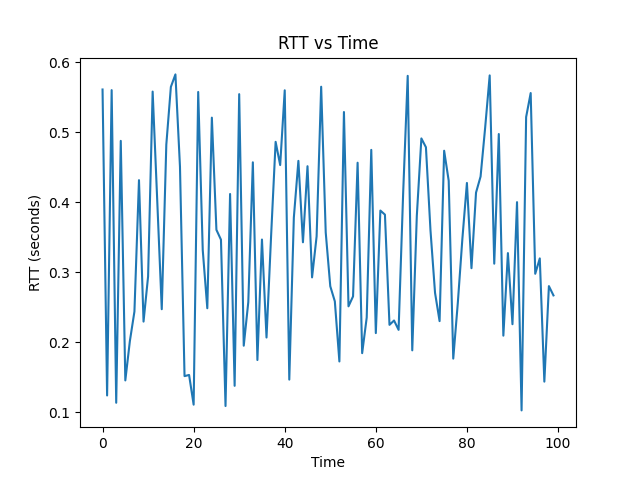
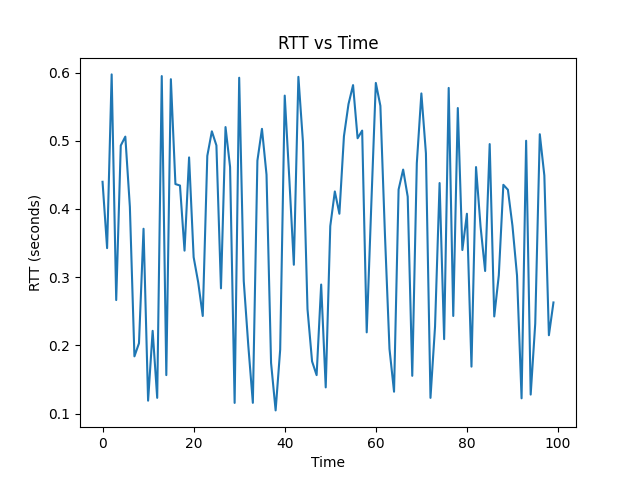
yeah ever

diff --git a/Security Aware TCP Simulation/tcp_sender.py b/Security Aware TCP Simulation/tcp_sender.py
@@ -4,62 +4,77 @@ import time
 from rtt_estimator import RTTEstimator
 from logger import log
 
+# Constants
 SERVER_IP = "127.0.0.1"
 SERVER_PORT = 9000
-DATA_SIZE = 1000  # bytes
-TOTAL_PACKETS = 100
+DATA_SIZE = 1000  # bytes per packet
+TOTAL_PACKETS = 100  # total packets to send
 
-cwnd = 1  # congestion window
-ssthresh = 16
-send_base = 0
+# TCP State Variables
+cwnd = 1          # congestion window size (packets)
+ssthresh = 16     # slow start threshold
+send_base = 0     # next expected ACK
 lock = threading.Lock()
 
 rtt_estimator = RTTEstimator()
 
 def send_packets(sock):
+    """Sender thread for sending packets"""
     global send_base, cwnd
     while send_base < TOTAL_PACKETS:
         lock.acquire()
         for i in range(send_base, min(send_base + cwnd, TOTAL_PACKETS)):
             data = f"{i}".encode()
-            sock.send(data)
-            log(f"[TCP]: Sent packet {i}")
+            try:
+                sock.send(data)
+                log(f"[TCP Sender]: Sent packet {i}")
+            except Exception as e:
+                log(f"[TCP Sender ERROR]: {e}")
         lock.release()
-        time.sleep(0.05)
+        time.sleep(0.05)  # small interval between bursts
 
 def receive_acks(sock):
+    """Sender thread for receiving ACKs and adjusting cwnd"""
     global send_base, cwnd, ssthresh
     while send_base < TOTAL_PACKETS:
-        ack = sock.recv(1024)
-        if not ack:
+        try:
+            ack = sock.recv(1024)
+            if not ack:
+                break
+            ack_num = int(ack.decode())
+            log(f"[TCP Sender]: Received ACK {ack_num}")
+            rtt_estimator.update_rtt_sample()
+
+            lock.acquire()
+            if ack_num >= send_base:
+                send_base = ack_num + 1
+                if cwnd < ssthresh:
+                    cwnd *= 2  # slow start phase
+                else:
+                    cwnd += 1  # congestion avoidance phase
+            lock.release()
+
+        except Exception as e:
+            log(f"[TCP Sender ERROR]: {e}")
             break
-        ack_num = int(ack.decode())
-        log(f"[TCP]: Received ACK {ack_num}")
-        rtt_estimator.update_rtt_sample()
-        lock.acquire()
-        if ack_num >= send_base:
-            send_base = ack_num + 1
-            if cwnd < ssthresh:
-                cwnd *= 2  # Slow Start
-            else:
-                cwnd += 1  # Congestion Avoidance
-        lock.release()
 
 def main():
+    """Main function for the TCP Sender"""
     sock = socket.socket(socket.AF_INET, socket.SOCK_STREAM)
     sock.connect((SERVER_IP, SERVER_PORT))
-    
+    log("[TCP Sender]: Connected to server.")
+
     send_thread = threading.Thread(target=send_packets, args=(sock,))
     ack_thread = threading.Thread(target=receive_acks, args=(sock,))
-    
+
     send_thread.start()
     ack_thread.start()
-    
+
     send_thread.join()
     ack_thread.join()
-    
+
     sock.close()
+    log("[TCP Sender]: Connection closed.")
 
 if __name__ == "__main__":
     main()
-

diff --git a/Security Aware TCP Simulation/tcp_receiver.py b/Security Aware TCP Simulation/tcp_receiver.py
@@ -1,38 +1,55 @@
 import socket
 import threading
-import random
 from network_simulator import simulate_network_conditions
 from attack_module import AttackModule
 from logger import log
 
+# Constants
 SERVER_IP = "127.0.0.1"
 SERVER_PORT = 9000
 
 attack_module = AttackModule()
 
 def handle_client(client_sock):
+    """Receiver logic to handle incoming packets and send ACKs"""
     while True:
-        pkt = client_sock.recv(1024)
-        if not pkt:
+        try:
+            pkt = client_sock.recv(1024)
+            if not pkt:
+                break
+            seq_num = int(pkt.decode())
+            log(f"[TCP Receiver]: Received packet {seq_num}")
+
+            # Simulate random network conditions (loss/delay)
+            simulate_network_conditions()
+
+            # Attack module may inject fake ACKs, dup ACKs, RTT manipulation
+            attack_module.maybe_inject_attack(client_sock, seq_num)
+
+            # Send normal ACK
+            client_sock.send(str(seq_num).encode())
+            log(f"[TCP Receiver]: Sent ACK {seq_num}")
+
+        except Exception as e:
+            log(f"[TCP Receiver ERROR]: {e}")
             break
-        seq_num = int(pkt.decode())
-        log(f"[TCP]: Received packet {seq_num}")
-        
-        simulate_network_conditions()
-        
-        attack_module.maybe_inject_attack(client_sock, seq_num)
-        
-        client_sock.send(str(seq_num).encode())  # Normal ACK
-        log(f"[TCP]: Sent ACK {seq_num}")
 
 def main():
+    """Main function for the TCP Receiver (server)"""
     server_sock = socket.socket(socket.AF_INET, socket.SOCK_STREAM)
+    server_sock.setsockopt(socket.SOL_SOCKET, socket.SO_REUSEADDR, 1)
     server_sock.bind((SERVER_IP, SERVER_PORT))
     server_sock.listen(1)
-    print("Server listening...")
+    log("[TCP Receiver]: Server listening...")
 
-    client_sock, _ = server_sock.accept()
+    client_sock, addr = server_sock.accept()
+    log(f"[TCP Receiver]: Accepted connection from {addr}")
+
     handle_client(client_sock)
+
+    client_sock.close()
+    server_sock.close()
+    log("[TCP Receiver]: Server closed.")
 
 if __name__ == "__main__":
     main()

diff --git a/Security Aware TCP Simulation/attack_module.py b/Security Aware TCP Simulation/attack_module.py
@@ -2,24 +2,36 @@ import random
 import time
 from logger import log
 
-ACK_SPOOF_PROB = 0.1
-DUP_ACK_FLOOD_PROB = 0.05
-RTT_MANIPULATION_PROB = 0.2
+# Attack probabilities (tweak as needed)
+ACK_SPOOF_PROB = 0.1            # 10% chance to spoof ACK
+DUP_ACK_FLOOD_PROB = 0.05       # 5% chance to flood duplicate ACKs
+RTT_MANIPULATION_PROB = 0.2     # 20% chance to manipulate RTT
 
 class AttackModule:
     def maybe_inject_attack(self, sock, seq_num):
+        """Randomly decides whether to inject any attack during ACK sending"""
+        
+        # ACK Spoofing: send a fake ACK with incorrect sequence number
         if random.random() < ACK_SPOOF_PROB:
             spoof_seq = seq_num + random.randint(1, 5)
-            sock.send(str(spoof_seq).encode())
-            log(f"[ATTACK]: Spoofed ACK {spoof_seq}")
+            try:
+                sock.send(str(spoof_seq).encode())
+                log(f"[ATTACK]: Spoofed ACK {spoof_seq} instead of {seq_num}")
+            except Exception as e:
+                log(f"[ATTACK ERROR]: {e}")
 
+        # Duplicate ACK Flooding: flood 3 duplicate ACKs
         if random.random() < DUP_ACK_FLOOD_PROB:
-            for _ in range(3):
-                sock.send(str(seq_num).encode())
-                log(f"[ATTACK]: Flood duplicate ACK {seq_num}")
+            try:
+                for _ in range(3):
+                    sock.send(str(seq_num).encode())
+                    log(f"[ATTACK]: Flooded Duplicate ACK {seq_num}")
+                    time.sleep(0.01)  # tiny delay between duplicates
+            except Exception as e:
+                log(f"[ATTACK ERROR]: {e}")
 
+        # RTT Manipulation: artificially delay before ACK
         if random.random() < RTT_MANIPULATION_PROB:
-            delay = random.uniform(0.2, 0.5)
-            log(f"[ATTACK]: Artificial RTT delay {int(delay*1000)}ms")
+            delay = random.uniform(0.2, 0.5)  # delay between 200ms–500ms
+            log(f"[ATTACK]: Artificial RTT delay of {int(delay * 1000)} ms")
             time.sleep(delay)
-

diff --git a/Security Aware TCP Simulation/main_simulation.py b/Security Aware TCP Simulation/main_simulation.py
@@ -1,40 +1,31 @@
-from tcp_sender import TCPSender
-from tcp_receiver import TCPReceiver
-from network_simulator import NetworkSimulator
-from attack_module import AttackModule
-from logger import setup_logger
+import logger
+logger.reset_log()
 import threading
 import time
+import tcp_receiver
+import tcp_sender
 
-def main():
-    logger = setup_logger()
 
-    # Configure simulation parameters
-    enable_attack = True
-    attack_types = ["ack_spoofing", "duplicate_ack_flood", "rtt_manipulation"]
+def start_receiver():
+    """Start the TCP receiver (server)"""
+    tcp_receiver.main()
 
-    # Setup simulator and components
-    network = NetworkSimulator(attack_enabled=enable_attack)
-    sender = TCPSender(network)
-    receiver = TCPReceiver(network)
-    attacker = AttackModule(network, attack_types)
-
-    # Start threads
-    sender_thread = threading.Thread(target=sender.start)
-    receiver_thread = threading.Thread(target=receiver.start)
-    if enable_attack:
-        attack_thread = threading.Thread(target=attacker.start)
-        attack_thread.start()
-
-    sender_thread.start()
-    receiver_thread.start()
-
-    sender_thread.join()
-    receiver_thread.join()
-    if enable_attack:
-        attacker.stop()
-
-    logger.info("Simulation Completed.")
+def start_sender():
+    """Start the TCP sender (client)"""
+    time.sleep(1)  # small delay to ensure receiver is ready
+    tcp_sender.main()
 
 if __name__ == "__main__":
-    main()
+    # Create separate threads for receiver and sender
+    receiver_thread = threading.Thread(target=start_receiver)
+    sender_thread = threading.Thread(target=start_sender)
+
+    # Start both threads
+    receiver_thread.start()
+    sender_thread.start()
+
+    # Wait for both to complete
+    receiver_thread.join()
+    sender_thread.join()
+
+    print("[Simulation]: Sender and Receiver completed.")

diff --git a/Security Aware TCP Simulation/rtt_estimator.py b/Security Aware TCP Simulation/rtt_estimator.py
@@ -1,17 +1,25 @@
 import time
 
 class RTTEstimator:
+    """Simple RTT estimator following TCP's Exponential Weighted Moving Average (EWMA)"""
+
     def __init__(self):
         self.sample_start_time = None
-        self.estimated_rtt = 0.5  # start with 500ms
+        self.estimated_rtt = 0.5  # Start with an assumed RTT of 500ms
+        self.alpha = 0.125  # EWMA smoothing factor
+
+    def start_sample(self):
+        """Start measuring RTT"""
+        self.sample_start_time = time.time()
 
     def update_rtt_sample(self):
+        """Update RTT estimation based on the latest ACK"""
         now = time.time()
         if self.sample_start_time:
-            sample = now - self.sample_start_time
-            self.estimated_rtt = 0.875 * self.estimated_rtt + 0.125 * sample
-        self.sample_start_time = now
+            sample_rtt = now - self.sample_start_time
+            self.estimated_rtt = (1 - self.alpha) * self.estimated_rtt + self.alpha * sample_rtt
+            self.sample_start_time = now  # Reset for next sample
 
     def get_estimated_rtt(self):
+        """Returns current estimated RTT"""
         return self.estimated_rtt
-

diff --git a/Security Aware TCP Simulation/network_simulator.py b/Security Aware TCP Simulation/network_simulator.py
@@ -2,16 +2,22 @@ import random
 import time
 from logger import log
 
-LOSS_RATE = 0.05  # 5% packet loss
-DELAY_PROB = 0.3  # 30% chance to delay
-MAX_DELAY = 0.2   # 200 ms
+# Normal network behavior parameters
+LOSS_RATE = 0.05       # 5% chance of packet loss
+DELAY_PROB = 0.3       # 30% chance of random delay
+MAX_DELAY = 0.2        # Maximum delay of 200ms
 
 def simulate_network_conditions():
+    """Simulate random network loss and delays to packets."""
+    
+    # Simulate packet loss
     if random.random() < LOSS_RATE:
-        log("[Network]: Packet lost!")
-        time.sleep(0.1)  # simulate loss effect
+        log("[Network Simulator]: Packet lost! (Simulated loss)")
+        time.sleep(0.1)  # simulate packet loss by waiting
+        return  # drop the packet (don't ACK back)
+
+    # Simulate random packet delay
     if random.random() < DELAY_PROB:
         delay = random.uniform(0, MAX_DELAY)
-        log(f"[Network]: Packet delayed by {int(delay*1000)}ms")
+        log(f"[Network Simulator]: Packet delayed by {int(delay * 1000)} ms")
         time.sleep(delay)
-

diff --git a/Security Aware TCP Simulation/logger.py b/Security Aware TCP Simulation/logger.py
@@ -1,4 +1,28 @@
+# logger.py
 import time
+import os
+
+# Setup the log file path
+LOG_DIR = "logs"
+LOG_FILE = os.path.join(LOG_DIR, "simulation_log.txt")
+
+# Create the logs folder if it doesn't exist
+os.makedirs(LOG_DIR, exist_ok=True)
 
 def log(msg):
-    print(f"[{time.strftime('%H:%M:%S')}] {msg}")
+    """Logs a message with timestamp to console AND to simulation_log.txt"""
+    timestamp = time.strftime('%H:%M:%S')
+    formatted_msg = f"[{timestamp}] {msg}"
+
+    # Print to terminal
+    print(formatted_msg)
+
+    # Also write to file
+    with open(LOG_FILE, "a") as f:
+        f.write(formatted_msg + "\n")
+
+def reset_log():
+    """Reset simulation_log.txt by clearing old content at simulation start"""
+    if os.path.exists(LOG_FILE):
+        with open(LOG_FILE, "w") as f:
+            f.write(f"=== New Simulation Log Started at {time.strftime('%Y-%m-%d %H:%M:%S')} ===\n")
